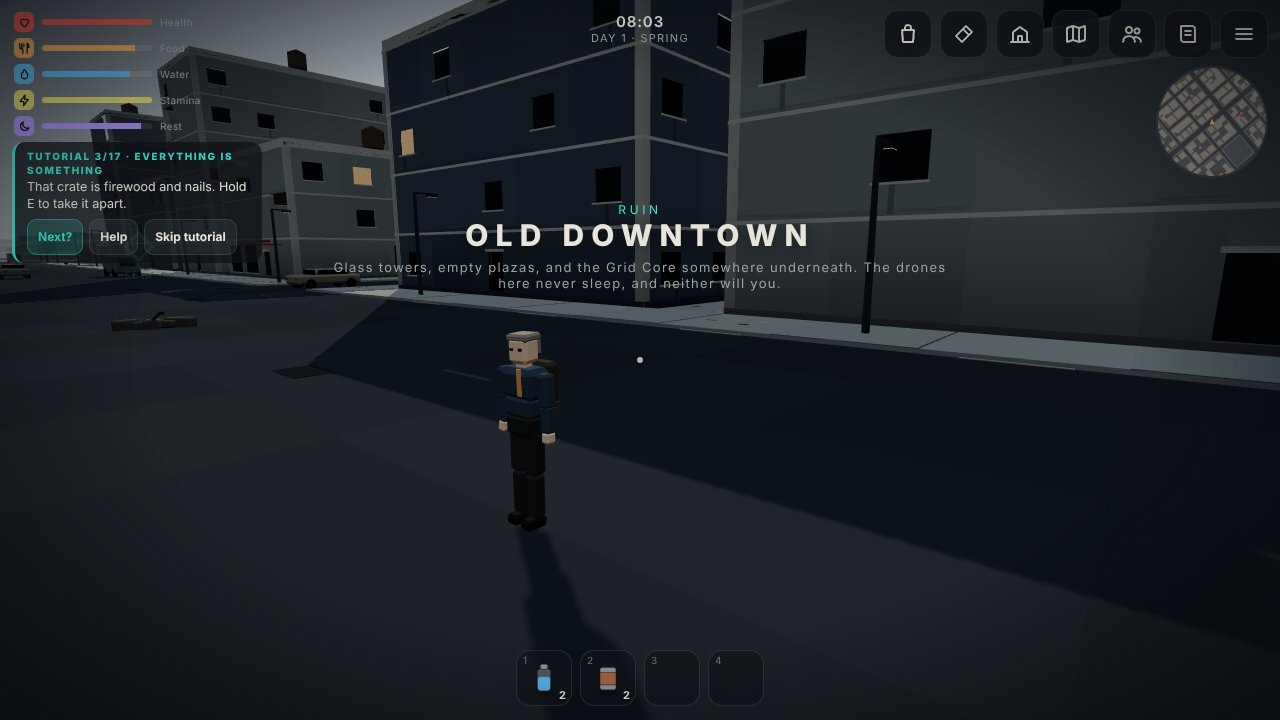
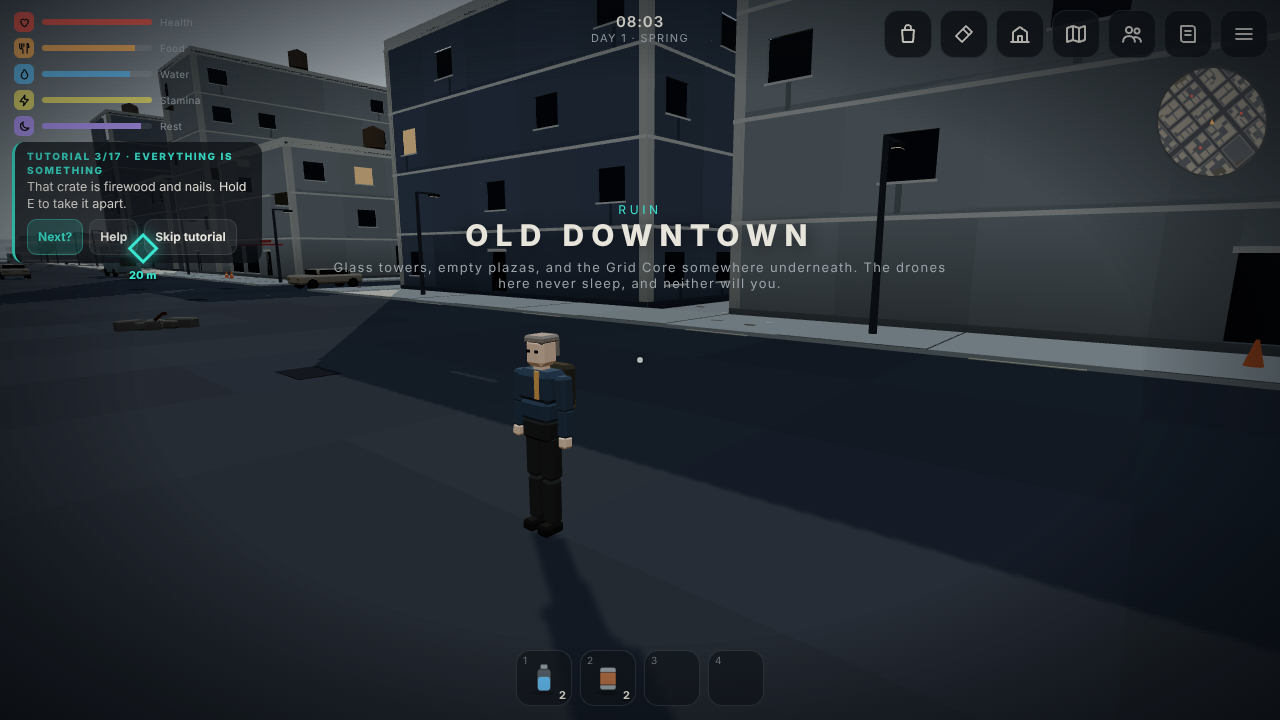
Phase 4 graphics: exposure/fill rebalance, per-floor facade tone, rain streaks, lit shop signs, restored planters/flowerbeds and warm scrubbed walls, sidewalk joints, cracks, litter, curb debris, cones, sandbags, camp smoke; restoration re-meshes loaded chunks
Claude-Session: https://claude.ai/code/session_01SR1Fv8d7mJoWGoXgmNhuZf

diff --git a/apps/game/src/world/mesher.ts b/apps/game/src/world/mesher.ts
@@ -185,6 +185,36 @@ export function buildGround(layout: WorldLayout, cx: number, cz: number, height:
           b.blob(fx, height(fx, fz) + 0.18, fz, 0.12, 0.1, 0.12, 0.2, k + hh);
         }
       }
+      // non-interactive street clutter (never highlighted): debris by the curb, cones, sandbags
+      if (st < 3 && t === Tile.Road && hh % 11 === 0) {
+        const nearCurb = tileAt(tx + 1, tz) === Tile.Sidewalk || tileAt(tx - 1, tz) === Tile.Sidewalk || tileAt(tx, tz + 1) === Tile.Sidewalk || tileAt(tx, tz - 1) === Tile.Sidewalk;
+        if (nearCurb) {
+          const bx = x0 + 1 + (hh % 3) * 0.7, bz = z0 + 1 + ((hh >> 3) % 3) * 0.7;
+          for (let k = 0; k < 4; k++) {
+            b.setColor(k % 2 ? 0x6e6a62 : 0x58544c);
+            b.bevelBox(bx + (k % 2) * 0.45 - 0.2, l + 0.12 + (k > 1 ? 0.14 : 0), bz + (k >> 1) * 0.35, 0.22 + (k % 3) * 0.05, 0.12, 0.18, 0.03);
+          }
+          b.setColor(0x4a3a2c);
+          b.box(bx + 0.3, l + 0.32, bz + 0.2, 0.5, 0.03, 0.04);
+        }
+      }
+      if (st < 3 && t === Tile.Sidewalk && hh % 17 === 0) {
+        const k = layout.districts[d]?.key;
+        if (k === 'downtown' || k === 'industrial' || k === 'market') {
+          // traffic cones
+          for (let i = 0; i < 2; i++) {
+            const ox = x0 + 1 + i * 1.3, oz = z0 + 2;
+            b.setColor(0xc86a32);
+            b.cylinder(ox, l, oz, 0.16, 0.03, 0.55, 6);
+            b.setColor(0xe8e0d0);
+            b.cylinder(ox, l + 0.25, oz, 0.1, 0.08, 0.08, 6, false);
+          }
+        } else {
+          // sandbag line
+          b.setColor(0x8a7a5a);
+          for (let i = 0; i < 4; i++) b.bevelBox(x0 + 0.6 + i * 0.75, l + 0.13, z0 + 2, 0.36, 0.13, 0.2, 0.08);
+        }
+      }
       // road paint: center dashes on straight road runs
       if (t === Tile.Road) {
         const ew = tileAt(tx - 1, tz) === Tile.Road && tileAt(tx + 1, tz) === Tile.Road;

diff --git a/apps/game/src/render/sky.ts b/apps/game/src/render/sky.ts
@@ -212,11 +212,11 @@ export class Atmosphere {
     lerpKey(h, 'sun', this.sun.color);
     // grade: cold in ruins, warm in restored
     this.sun.color.lerp(warmth > 0.5 ? WARM : COLD, Math.abs(warmth - 0.5) * 0.5);
-    this.sun.intensity = sunI * 1.7;
+    this.sun.intensity = sunI * 1.45;
     lerpKey(h, 'hemiSky', this.hemi.color);
     this.hemi.color.lerp(warmth > 0.5 ? WARM : COLD, Math.abs(warmth - 0.5) * 0.35);
     lerpKey(h, 'hemiGround', this.hemi.groundColor);
-    this.hemi.intensity = lerpNum(h, 'hemiI') * 2.7 * (1 + this.cloud * 0.15);
+    this.hemi.intensity = lerpNum(h, "hemiI") * 3.1 * (1 + this.cloud * 0.15);
 
     // the shadow-casting light follows the focus point; at night it is the moon
     const L = isDay ? this.sunDir : this.moonDir.set(-this.sunDir.x, Math.max(0.35, -this.sunDir.y), this.sunDir.z).normalize();

diff --git a/apps/game/src/world/haven.ts b/apps/game/src/world/haven.ts
@@ -171,8 +171,18 @@ export class HavenCamp {
     this.group.add(new THREE.Line(wire, new THREE.LineBasicMaterial({ color: 0x1a1612 })));
   }
 
+  /** smoke emitter hook (set by the game: FX.smoke) */
+  smoke: ((x: number, y: number, z: number) => void) | null = null;
+  private smokeT = 0;
+
   update(dt: number, night: number): void {
     this.t += dt;
+    this.smokeT -= dt;
+    if (this.smoke && this.smokeT <= 0) {
+      this.smokeT = 0.35;
+      const f = this.flames[Math.floor(Math.random() * this.flames.length)];
+      if (f) this.smoke(f.position.x, f.position.y + 0.5, f.position.z);
+    }
     for (let i = 0; i < this.flames.length; i++) {
       const f = this.flames[i];
       const s = 0.85 + Math.sin(this.t * 13 + i * 3) * 0.1 + Math.sin(this.t * 7.3 + i) * 0.08;

diff --git a/apps/game/src/render/fx.ts b/apps/game/src/render/fx.ts
@@ -153,6 +153,11 @@ export class FX {
     }
   }
 
+  /** Rising smoke puff (camp fires, chimneys). */
+  smoke(x: number, y: number, z: number, color = 0x7a7670): void {
+    this.spawn(1, x + (Math.random() - 0.5) * 0.3, y, z + (Math.random() - 0.5) * 0.3, color, 0.35 + Math.random() * 0.25, 3 + Math.random() * 1.5, (Math.random() - 0.5) * 0.3 + 0.25, 0.9 + Math.random() * 0.4, (Math.random() - 0.5) * 0.3);
+  }
+
   sparks(x: number, y: number, z: number, n = 8, color = 0xffc070): void {
     for (let i = 0; i < n; i++) {
       const a = Math.random() * Math.PI * 2;

diff --git a/apps/game/src/game/game.ts b/apps/game/src/game/game.ts
@@ -230,6 +230,7 @@ export class Game implements GameAPI {
     this.scene.add(this.base.group);
     this.camp = new HavenCamp(this.layout.spawn.x, this.layout.spawn.z, (x, z) => this.view.surface(x, z), this.collision);
     this.scene.add(this.camp.group);
+    this.camp.smoke = (x, y, z) => this.fx.smoke(x, y, z);
     const rig = new CharacterRig(randomLook(7, { backpack: true, hairStyle: 1, shirt: 0x46535c, accent: 0xe8a65a }));
     this.scene.add(rig.root);
     this.player = new PlayerController(rig);

diff --git a/apps/game/src/core/renderer.ts b/apps/game/src/core/renderer.ts
@@ -61,7 +61,7 @@ export class Renderer {
     container.appendChild(this.canvas);
     this.gl.outputColorSpace = THREE.SRGBColorSpace;
     this.gl.toneMapping = THREE.ACESFilmicToneMapping;
-    this.gl.toneMappingExposure = 1.05;
+    this.gl.toneMappingExposure = 1.32;
     this.gl.shadowMap.enabled = this.quality.shadows;
     this.gl.shadowMap.type = THREE.PCFShadowMap;
     this.gl.info.autoReset = false;
